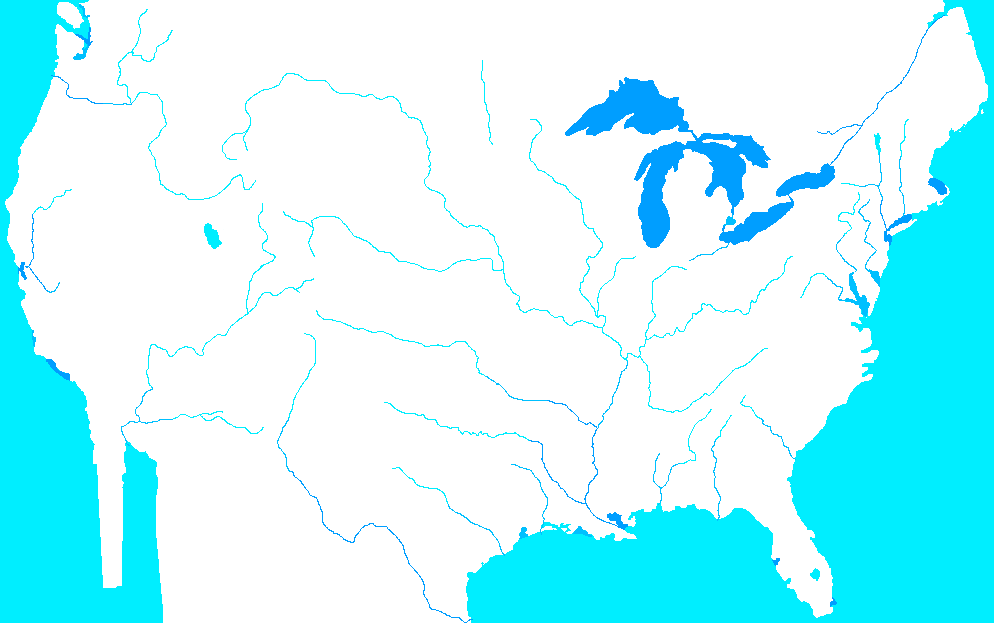
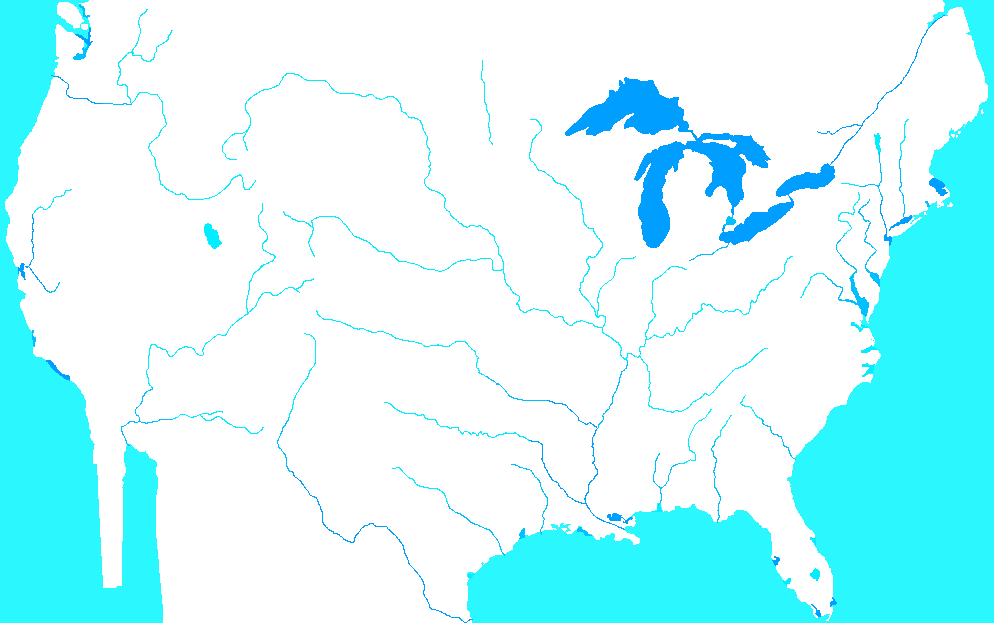
Varied City Generation

Changed region(s): [[0.4678, 0.0, 1.0, 1.0], [0.0, 0.0, 0.1871, 1.0]]

diff --git a/src/populate.c b/src/populate.c
@@ -61,7 +61,9 @@ unsigned short calc_cell_population(int target_cell, struct DataDims data_dims, 
     unsigned short biome = data[target_cell+6];
     unsigned short pop = data[target_cell+7];
 
-    int jitter = rand() % 1000;
+    const int MAX_JITTER = 10000;
+    int jitter = rand() % MAX_JITTER;
+    float jitter_range = (jitter - MAX_JITTER / 2.0) / MAX_JITTER;
 
     // If the cell is water, too high, too steep, or too dry then return 0
     if (water > 0 || elev > 10000 || grad > 30 || precip < 10) return 0;
@@ -70,14 +72,14 @@ unsigned short calc_cell_population(int target_cell, struct DataDims data_dims, 
     if (pop > 40000) return pop;
 
     // Value of a cell on a scale of 0-100
-    short cell_value = 0;
+    short cell_value = jitter_range * 40;
     unsigned short nearby_water = count_neighbor_values(target_cell+2, 2, data_dims, ghost_cols, data);
 
-    cell_value += nearby_water * 2 > 40 ? 40 : nearby_water * 2;
-    cell_value += resources;
+    cell_value += nearby_water > 25 ? 25 : nearby_water;
+    cell_value += resources / 2;
     cell_value += 10 - (elev / 1000);
-    cell_value += 10 - (grad / 3);
-    cell_value += temp > 45 && temp < 65 ? 10 : 0;
+    cell_value += 15 - (grad / 3);
+    cell_value += temp > 45 && temp < 70 ? 15 : 0;
     cell_value += precip > 30 ? 10 : 0;
     // If the biome is a swamp
     if (biome == 4) cell_value -= 10;
@@ -102,9 +104,9 @@ unsigned short calc_cell_population(int target_cell, struct DataDims data_dims, 
             (nearby_population > 70 && cell_value > 30) ||
             (nearby_population > 100 && cell_value > 20)
         // Randomly fail to explore the cell
-        ) return jitter < 900 ? 10 : 0;
+        ) return jitter < 0.9 * MAX_JITTER ? 10 : 0;
 
-        return nearby_population > 0 && jitter < 50 ? 10 : 0;
+        return nearby_population > 0 && jitter < 0.05 * MAX_JITTER ? 10 : 0;
     }
 
     // ~~~ SETTLEMENT PHASE ~~~ //
@@ -115,14 +117,14 @@ unsigned short calc_cell_population(int target_cell, struct DataDims data_dims, 
     // If the cell is explored with no nearby cities
     if (pop == 10 && avg_neighbor_pop <= 10) {
         // Settle new city
-        if (jitter < cell_value / 30) return 21*avg_neighbor_pop;
+        if (jitter < 3) return 110;
     }
-    // If the cell is settled with nearby cities
-    else if (pop == 10 && jitter < cell_value * 0.2) {
-        if (avg_neighbor_pop < 50) return 10 + avg_neighbor_pop;
-        else if (avg_neighbor_pop < 100 && jitter < cell_value * 0.16) return 10 + avg_neighbor_pop;
-        else if (avg_neighbor_pop < 200 && jitter < cell_value * 0.12) return 10 + avg_neighbor_pop;
-        else if (jitter < cell_value * 0.09) return 10 + avg_neighbor_pop;
+    // If the cell is settled with nearby cities, expand the city with this cell
+    else if (pop == 10 && jitter < cell_value / 3) {
+        if (avg_neighbor_pop < 150) return 10 + avg_neighbor_pop / 3;
+        else if (avg_neighbor_pop < 300) return 10 + avg_neighbor_pop / 4;
+        else if (avg_neighbor_pop < 500) return 10 + avg_neighbor_pop / 5;
+        else return 10 + avg_neighbor_pop / 8;
     }
     // Skip growth if the criteria for an already settled cell are not met
     if (pop == 10) return 10;
@@ -130,11 +132,27 @@ unsigned short calc_cell_population(int target_cell, struct DataDims data_dims, 
     // ~~~ GROWTH PHASE ~~~ //
 
     // Add a bonus to the cell value based on the average population of the neighbors, scaling with the cell value
-    unsigned short neighbor_bonus = avg_neighbor_pop > pop ? 0.1 * cell_value / 100.0 * avg_neighbor_pop : 0;
+    unsigned short neighbor_bonus = 0.03 * cell_value / 100.0 * avg_neighbor_pop;
     // Grow the cell by a factor of its population, scaling with the cell value, and add the neighbor bonus
-    float growth_factor = 1;
-    if (pop + avg_neighbor_pop > 500) growth_factor = 0.2;
-    else if (pop + avg_neighbor_pop > 1000) growth_factor = 0.05;
-    else if (pop + avg_neighbor_pop > 1500) growth_factor = 0.15;
-    return (1 + (cell_value / 100.0 * 0.02 * growth_factor)) * pop + growth_factor * growth_factor * neighbor_bonus;
+    float neighbor_growth_factor = 0.3;
+    if (avg_neighbor_pop > 1500) neighbor_growth_factor = 0.006;
+    else if (avg_neighbor_pop > 1000) neighbor_growth_factor = 0.002;
+    else if (avg_neighbor_pop > 750) neighbor_growth_factor = 0.04;
+    else if (avg_neighbor_pop > 500) neighbor_growth_factor = 0.06;
+
+    float city_center_bonus = 1;
+    if (pop * (1+jitter_range*0.5) > avg_neighbor_pop) city_center_bonus = 2.1;
+
+    float growth_factor = city_center_bonus;
+    if (pop > 3500) growth_factor *= 0.07;
+    else if (pop > 2500) growth_factor *= 0.15;
+    else if (pop > 1500) growth_factor *= 0.2;
+    else if (pop > 1000) growth_factor *= 0.22;
+    else if (pop > 750) growth_factor *= 0.25;
+    else if (pop > 500) growth_factor *= 0.4;
+
+    float cell_bonus = cell_value * 1.3;
+    if (cell_bonus > 100) cell_bonus = 100;
+
+    return (1 + (cell_bonus / 100.0 * 0.011 * growth_factor)) * pop + neighbor_growth_factor * neighbor_bonus;
 }

diff --git a/scripts/visualize_data.py b/scripts/visualize_data.py
@@ -115,9 +115,10 @@ precip_color_map_rev = reverse_map(precip_color_map)
 # Trade usefulness of water
 water_color_map = {
     (0, 0, 0): 0,  # No water
-    (0, 238, 255): 1,  # Low-trade Water
-    (0, 192, 255): 2,  # Medium-trade Water
-    (0, 158, 255): 3,  # High-trade Water
+    (43, 247, 255): 4,  # Ocean
+    (0, 238, 255): 5,  # Low-trade Water
+    (0, 192, 255): 7,  # Medium-trade Water
+    (0, 158, 255): 10,  # High-trade Water
 }
 water_color_map_rev = reverse_map(water_color_map)
 
